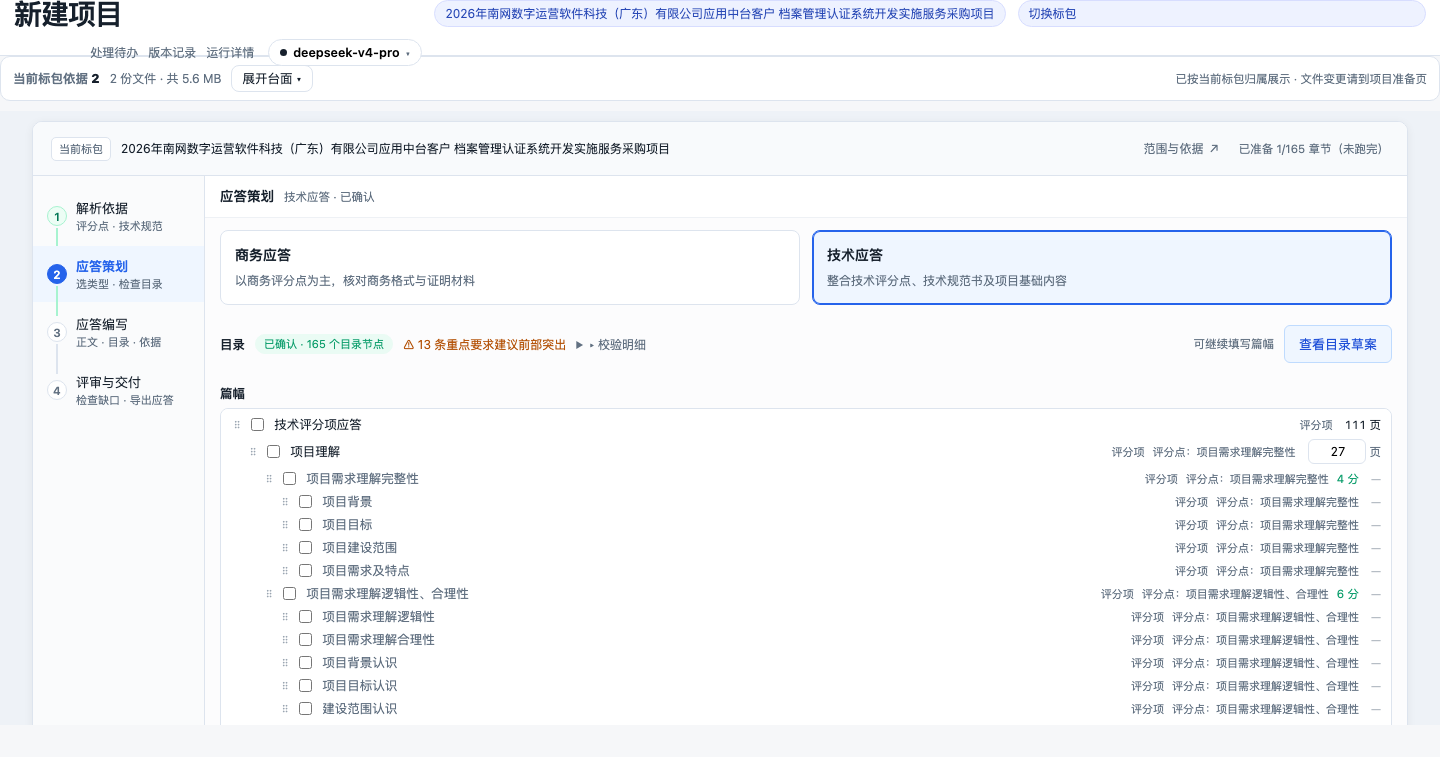
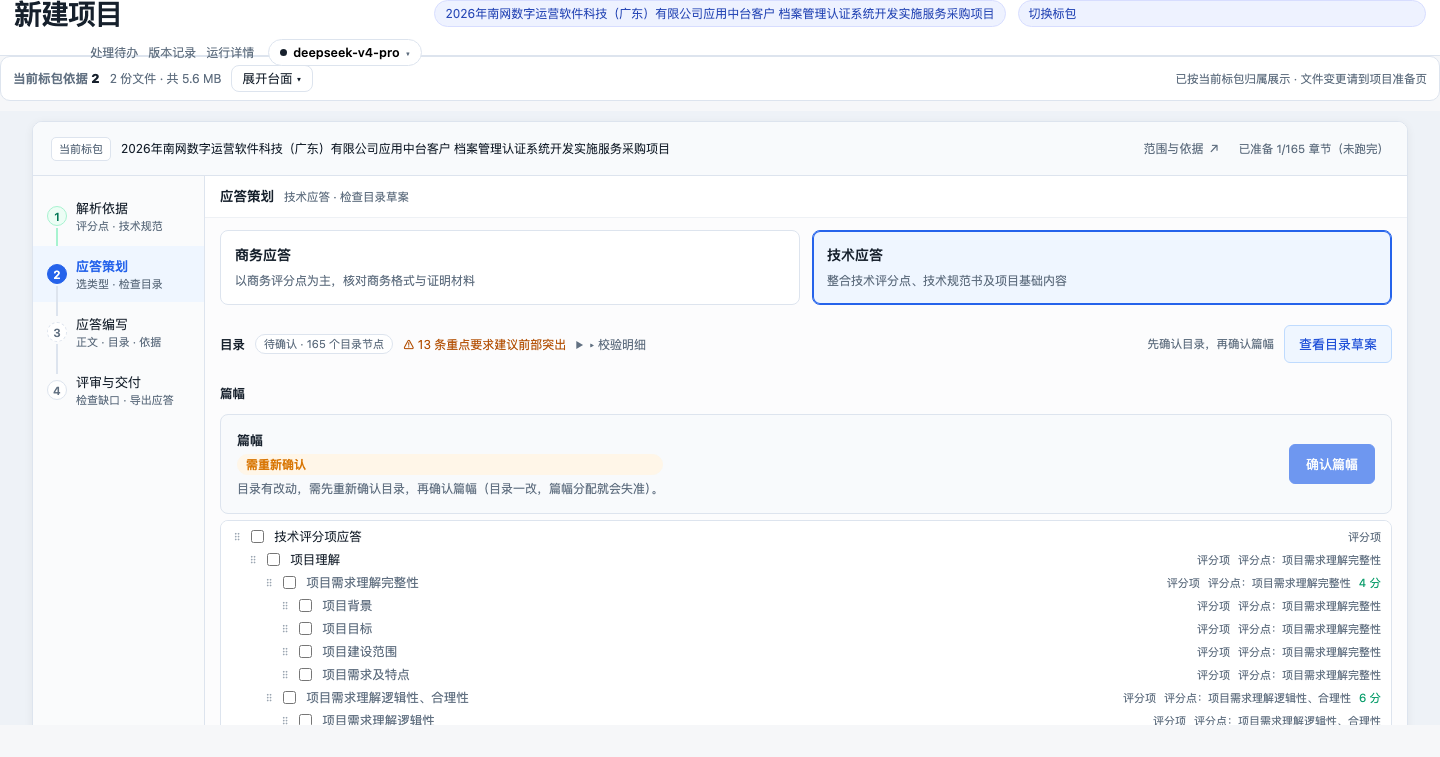
fix(策划): 篇幅区不再静默消失；隐藏旧块改为按身份而非按 class
用户反馈"篇幅输入框部分没看到输入框"。

## 真实原因（不是渲染 bug，是状态 + 我自己的守卫）
- 目录被编辑过（165 → 166 个节点，后又回到 165），**编辑会让"目录已确认"失效**
- 而篇幅区只在 directory_confirmed 为真时渲染 → 于是整块（连"篇幅"标题）**静默消失**
- 用户看到的是：标题空了 / 什么都没了，不知道发生了什么

## 改法
1 目录未确认时**不隐藏**，改为渲染门控条：
  「篇幅 [需重新确认] 目录有改动，需先重新确认目录，再确认篇幅（目录一改，篇幅分配就会失准）」+ 禁用的确认按钮
  —— 用户一眼知道"为什么没有输入框、下一步做什么"
2 隐藏旧块改为**按身份**：
  原本按 class 隐藏 .response-confirm-bar，而为了 UI 一致，我新增的篇幅区 / 门控条 / 收尾栏
  也用了同一个类 → **把自己一起藏了**（这个坑在本轮踩了三次：篇幅条、收尾栏、门控条）。
  现在只隐藏"含 [data-act=response-confirm] 或 [data-act=response-write] 的那张原卡"。

## 实测（真实项目 27，当前目录为"待确认"状态）
门控条可见 ✅ · 文案含原因与下一步 ✅ · 「确认篇幅」禁用 ✅
「篇幅」标题存在 ✅ · 目录胶囊显示「待确认 · 165 个目录节点」✅ · 无 JS 报错 ✅
目录重新确认后，输入框与该条即恢复（同一处逻辑，走 directory_confirmed 分支）

## 教训（已写进注释）
保持 UI 一致要靠**复用页面组件**，但复用会让"我新增的元素"和"我要隐藏的旧块"撞类名；
因此隐藏必须靠**身份**（data-act / 结构），不能靠 class。

diff --git a/frontend/assets/mode-outline.js b/frontend/assets/mode-outline.js
@@ -2,9 +2,9 @@
    抽成模块的目的：两段内联脚本有 90 个同名顶层标识符 + 18 个重复 DOM id，
    同页拼接必然互相覆盖；各自成为一个模块即各自一个作用域。
    本文件在抽取时**未改任何逻辑**。 */
-import {mountChapterStudio, exportDocument} from './chapter-studio.mjs?v=20261016-v186';
-import { api } from './api.js?v=20261016-v186';
-import { specContentHtml } from './spec-content.mjs?v=20261016-v186';
+import {mountChapterStudio, exportDocument} from './chapter-studio.mjs?v=20261016-v189';
+import { api } from './api.js?v=20261016-v189';
+import { specContentHtml } from './spec-content.mjs?v=20261016-v189';
 // 顶栏（项目名旁边那行「第 N 轮 · ...」）由共享壳 workspace.js 渲染。这里要把它
 // 改成**页面自己的真实状态**：checkpoint 的 stage 在准备中/编写准备完成后都停在
 // outline_review，只看它的话顶栏永远显示"待确认目录"（实测就是这个问题）。
@@ -12,7 +12,7 @@ import { workspace, renderWorkspaceChrome,
          REQUIREMENT_ROLES, SELECTABLE_REQUIREMENT_ROLES, ROLE_LABEL_SHARED, ROLE_HINT_SHARED,
          roleMismatchWarning, inferRoleFromFilename,
          uiAlert, uiConfirm,
-       } from './workspace.js?v=20261016-v186';
+       } from './workspace.js?v=20261016-v189';
 import { resolvePackageScope, buildOutlineTree, isOrphanedRun, activeStages, instructionDirty, newOutlineId, outlineSubtreeRange,
          moveOutlineNode, indentOutlineNode, outdentOutlineNode,
          moveManyOutlineNodes, indentManyOutlineNodes, outdentManyOutlineNodes,
@@ -31,7 +31,7 @@ import { resolvePackageScope, buildOutlineTree, isOrphanedRun, activeStages, ins
          // 章节状态投影：素材库 / 方案编辑 / 覆盖矩阵共用同一份判定（不再各算各的）
          chapterStage, chapterBadges, filterChapters, chapterFilterCounts,
          CHAPTER_STAGE_LABELS, evidenceByChapter, expandVisibleWithAncestors
-       } from './workspace-model.mjs?v=20261016-v186';
+       } from './workspace-model.mjs?v=20261016-v189';
 
 const params = new URLSearchParams(location.search);
 // projectId **只取数字部分**：链接被误写成 `?projectId=19**(Cmd+Shift+R)`（连带说明文字）
@@ -174,7 +174,7 @@ document.head.insertAdjacentHTML('beforeend', `<style>
 // 左栏章节树：行标记与「方案编辑」共用一份（2026-10-13 左栏归一）。
 // 此前两侧各拼一套（.ot-row / .doc-outline-item），数据投影虽已共用，
 // 但标记重复维护会漂移（workspace-model.mjs 注释里记着 "#undefined" 那次）。
-import { chapterNode, chapterBadgesHtml as sharedBadgesHtml } from './chapter-tree.mjs?v=20261016-v186';
+import { chapterNode, chapterBadgesHtml as sharedBadgesHtml } from './chapter-tree.mjs?v=20261016-v189';
 const blocksEmpty = document.getElementById('blocks-empty');
 const sidebarToc  = document.getElementById('sidebar-toc');
 const ringFill    = document.getElementById('ring-fill');
@@ -3632,7 +3632,17 @@ function pageBudgetCellHtml(b) {
 
 /** 篇幅控制条：总页数 + 两个动作 + 合计校验 + 确认篇幅。 */
 function pageBudgetBarHtml() {
-  if (!pageBudgetData || !pageBudgetData.directory_confirmed) return '';
+  if (!pageBudgetData) return '';
+  // 目录被改动 → 确认失效 → 篇幅必须重新确认（否则目录一改篇幅就乱）。
+  // 此时**不能静默隐藏**整块：用户只会觉得"输入框不见了"，要说明原因。
+  if (!pageBudgetData.directory_confirmed) {
+    return `<h5 class="sr-sec">篇幅</h5>
+      <div class="response-confirm-bar" data-page-budget-gate>
+        <div><strong>篇幅 <span class="ui-pill is-warn">需重新确认</span></strong>
+          <span>目录有改动，需先重新确认目录，再确认篇幅（目录一改，篇幅分配就会失准）。</span></div>
+        <button class="mw-btn primary" disabled>确认篇幅</button>
+      </div>`;
+  }
   const d = pageBudgetData;
   const ok = !!d.ok;
   const sum = `<span class="sr-dim" id="sr-page-sum">已分配到 <b>${Number(d.chapter_count) || 0}</b> 章 · 合计 <b>${Number(d.allocated) || 0}</b> 页</span>`;
@@ -4819,7 +4829,13 @@ async function openSplitReport({ auto = false, tab = '', stage: stageIn = '', su
   el.querySelectorAll('.sr-stage.on[data-stage="2"] .sr-stage-body > h5.sr-sec, .sr-stack h5.sr-sec').forEach((h) => {
     if ((h.textContent || '').indexOf('目录草案') === 0) h.hidden = true;   // 已由「目录」段标题替代
   });
-  el.querySelectorAll('.response-basis-card, .response-coverage, .response-landing-warning, .response-chapter-evidence, .response-mapping, .response-confirm-bar').forEach((node) => { node.hidden = true; });
+  // 隐藏"被合并掉的旧块"。注意：因为要保持 UI 一致，我新增的组件也用了 .response-confirm-bar，
+  // 按 class 隐藏会连自己一起藏掉（这个坑踩了三次）。改为**按身份**隐藏：
+  // 只有原「确认目录 / 进入编写」那张卡才藏。
+  el.querySelectorAll('.response-basis-card, .response-coverage, .response-landing-warning, .response-chapter-evidence, .response-mapping').forEach((node) => { node.hidden = true; });
+  el.querySelectorAll('.response-confirm-bar').forEach((node) => {
+    if (node.querySelector('[data-act="response-confirm"], [data-act="response-write"]')) node.hidden = true;
+  });
   el.querySelectorAll('.sr-dim').forEach((span) => {
     if (span.children.length) return;
     const text = span.textContent || '';

diff --git a/frontend/workbench.html b/frontend/workbench.html
@@ -4,7 +4,7 @@
     <meta charset="UTF-8" />
     <meta name="viewport" content="width=device-width, initial-scale=1.0" />
     <title>智能应标 · 材料撰写</title>
-    <link rel="stylesheet" href="./assets/styles.css?v=20261016-v186" />
+    <link rel="stylesheet" href="./assets/styles.css?v=20261016-v189" />
     <style>
       /* Outline pane */
       .workspace-shell .outline-pane {
@@ -2055,7 +2055,7 @@
     </style>
     <!-- Markdown 渲染（用于预览模式） -->
     <script src="https://cdn.jsdelivr.net/npm/marked@12.0.0/marked.min.js"></script>
-  <link rel="stylesheet" href="./assets/workspace.css?v=20261016-v186" />
+  <link rel="stylesheet" href="./assets/workspace.css?v=20261016-v189" />
   </head>
   <body>
   <script>
@@ -2500,18 +2500,18 @@
       </main>
     </div>
 
-    <script type="module" src="./assets/workbench.js?v=20261016-v186"></script>
+    <script type="module" src="./assets/workbench.js?v=20261016-v189"></script>
     <script type="module">
-      import { GenerateSession } from './assets/generate-session.js?v=20261016-v186';
-      import { initContextPanel } from './assets/context-panel.js?v=20261016-v186';
-      import { api } from './assets/api.js?v=20261016-v186';
-      import { request as workspaceRequest, refreshWorkspace, workspace, confirmChapterAction } from './assets/workspace.js?v=20261016-v186';
+      import { GenerateSession } from './assets/generate-session.js?v=20261016-v189';
+      import { initContextPanel } from './assets/context-panel.js?v=20261016-v189';
+      import { api } from './assets/api.js?v=20261016-v189';
+      import { request as workspaceRequest, refreshWorkspace, workspace, confirmChapterAction } from './assets/workspace.js?v=20261016-v189';
       // 提炼字段枚举 + 素材依据的**渲染片段**与 project-init 共用（见 workspace-model.mjs 注释）：
       // 性质徽标与出处行的实现在那边只有一份，两个页面不再各写一套（曾经因此漂移出
       // "每行显示 #undefined"）。
       import { CONSTRAINT_LEVELS, constraintLevelLabel,
                evidenceKindBadgeHtml, evidenceSourceLineHtml, evidenceSnippet,
-               chapterStage, CHAPTER_STAGE_LABELS } from './assets/workspace-model.mjs?v=20261016-v186';
+               chapterStage, CHAPTER_STAGE_LABELS } from './assets/workspace-model.mjs?v=20261016-v189';
       initContextPanel();
 
       // 素材抽屉：默认收起（写作时右栏就是正文本身），点工具栏「素材 n ▸」打开；
@@ -5575,6 +5575,6 @@
       })();
     })();
     </script>
-  <script type="module" src="./assets/workspace.js?v=20261016-v186"></script>
+  <script type="module" src="./assets/workspace.js?v=20261016-v189"></script>
   </body>
 </html>

diff --git a/frontend/three-mode.html b/frontend/three-mode.html
@@ -4,9 +4,9 @@
     <meta charset="UTF-8" />
     <meta name="viewport" content="width=device-width, initial-scale=1.0" />
     <title>AiBidding · Workbench Init State</title>
-    <link rel="stylesheet" href="./assets/response-outline.css?v=20261016-v186" />
-    <link rel="stylesheet" href="./assets/chapter-studio.css?v=20261016-v186" />
-    <link rel="stylesheet" href="./assets/styles.css?v=20261016-v186" />
+    <link rel="stylesheet" href="./assets/response-outline.css?v=20261016-v189" />
+    <link rel="stylesheet" href="./assets/chapter-studio.css?v=20261016-v189" />
+    <link rel="stylesheet" href="./assets/styles.css?v=20261016-v189" />
     <style>
 /* ── 三栏布局 ── */
 .init-layout {
@@ -3350,8 +3350,8 @@ body[data-view="matching"] .match-detail { display: block; }
   body[data-view="editor"] .ws-editor-layout { flex: 1 1 auto; min-height: 0; }
 
 </style>
-  <link rel="stylesheet" href="./assets/workspace.css?v=20261016-v186" />
-  <link rel="stylesheet" href="./assets/ui.css?v=20261016-v186" />   <!-- 组件最小集：最后加载以统一历史类名 -->
+  <link rel="stylesheet" href="./assets/workspace.css?v=20261016-v189" />
+  <link rel="stylesheet" href="./assets/ui.css?v=20261016-v189" />   <!-- 组件最小集：最后加载以统一历史类名 -->
   </head>
   <body data-view="outline" data-modes="outline,matching,editor">
     <div class="workspace-shell">
@@ -4053,16 +4053,16 @@ body[data-view="matching"] .match-detail { display: block; }
         if (skel) skel.hidden = true;
       }, 6000);
     </script>
-    <script type="module" src="./assets/workbench.js?v=20261016-v186"></script>
-    <script type="module" src="./assets/mode-dispatch.js?v=20261016-v186"></script>
+    <script type="module" src="./assets/workbench.js?v=20261016-v189"></script>
+    <script type="module" src="./assets/mode-dispatch.js?v=20261016-v189"></script>
     <!-- 动态 import：失败可捕获并上报（静态 import 失败无法捕获，会让整页静默不执行） -->
     <script type="module">
-      for (const mod of ['./assets/mode-outline.js?v=20261016-v186',
-                        './assets/mode-editor.js?v=20261016-v186']) {
+      for (const mod of ['./assets/mode-outline.js?v=20261016-v189',
+                        './assets/mode-editor.js?v=20261016-v189']) {
         try { await import(mod); }
         catch (err) { window.__bootErrors.push(`模块加载失败 ${mod}：${err?.message || err}`); }
       }
     </script>
-  <script type="module" src="./assets/workspace.js?v=20261016-v186"></script>
+  <script type="module" src="./assets/workspace.js?v=20261016-v189"></script>
   </body>
 </html>

diff --git a/frontend/project-init.html b/frontend/project-init.html
@@ -4,7 +4,7 @@
     <meta charset="UTF-8" />
     <meta name="viewport" content="width=device-width, initial-scale=1.0" />
     <title>AiBidding · Workbench Init State</title>
-    <link rel="stylesheet" href="./assets/styles.css?v=20261016-v186" />
+    <link rel="stylesheet" href="./assets/styles.css?v=20261016-v189" />
     <style>
 /* ── 三栏布局 ── */
 .init-layout {
@@ -889,7 +889,7 @@ body[data-view="matching"] .match-detail { display: block; }
   background: #eff6ff;
 }
     </style>
-  <link rel="stylesheet" href="./assets/workspace.css?v=20261016-v186" />
+  <link rel="stylesheet" href="./assets/workspace.css?v=20261016-v189" />
   </head>
   <body data-view="outline">
   <script>
@@ -1097,14 +1097,14 @@ body[data-view="matching"] .match-detail { display: block; }
     </div>
 
     <script type="module">
-import { api } from './assets/api.js?v=20261016-v186';
+import { api } from './assets/api.js?v=20261016-v189';
 // 顶栏（项目名旁边那行「第 N 轮 · ...」）由共享壳 workspace.js 渲染。这里要把它
 // 改成**页面自己的真实状态**：checkpoint 的 stage 在提炼中/提炼完成后都停在
 // outline_review，只看它的话顶栏永远显示"待确认目录"（实测就是这个问题）。
 import { workspace, renderWorkspaceChrome,
          REQUIREMENT_ROLES, ROLE_LABEL_SHARED, ROLE_HINT_SHARED,
          roleMismatchWarning, inferRoleFromFilename,
-       } from './assets/workspace.js?v=20261016-v186';
+       } from './assets/workspace.js?v=20261016-v189';
 import { buildOutlineTree, isOrphanedRun, activeStages, instructionDirty, newOutlineId, outlineSubtreeRange,
          moveOutlineNode, indentOutlineNode, outdentOutlineNode,
          removeOutlineSubtree, insertSiblingAfter, insertChildOf,
@@ -1118,7 +1118,7 @@ import { buildOutlineTree, isOrphanedRun, activeStages, instructionDirty, newOut
          // 章节状态投影：素材库 / 方案编辑 / 覆盖矩阵共用同一份判定（不再各算各的）
          chapterStage, chapterBadges, filterChapters, chapterFilterCounts,
          CHAPTER_STAGE_LABELS, evidenceByChapter, expandVisibleWithAncestors
-       } from './assets/workspace-model.mjs?v=20261016-v186';
+       } from './assets/workspace-model.mjs?v=20261016-v189';
 
 const params = new URLSearchParams(location.search);
 const projectId = params.get('projectId');
@@ -4957,6 +4957,6 @@ bindMatchDetailActions();
   });
 })();
     </script>
-  <script type="module" src="./assets/workspace.js?v=20261016-v186"></script>
+  <script type="module" src="./assets/workspace.js?v=20261016-v189"></script>
   </body>
 </html>

diff --git a/frontend/assets/mode-editor.js b/frontend/assets/mode-editor.js
@@ -2,13 +2,13 @@
    抽成模块的目的：两段内联脚本有 90 个同名顶层标识符 + 18 个重复 DOM id，
    同页拼接必然互相覆盖；各自成为一个模块即各自一个作用域。
    本文件在抽取时**未改任何逻辑**。 */
-import { GenerateSession } from './generate-session.js?v=20261016-v186';
+import { GenerateSession } from './generate-session.js?v=20261016-v189';
 // 左栏章节树：与「要求与大纲 / 素材库」共用一份行标记（2026-10-13 左栏归一）
-import { chapterNode, renderChapterTree } from './chapter-tree.mjs?v=20261016-v186';
-import { initContextPanel } from './context-panel.js?v=20261016-v186';
-import { api } from './api.js?v=20261016-v186';
+import { chapterNode, renderChapterTree } from './chapter-tree.mjs?v=20261016-v189';
+import { initContextPanel } from './context-panel.js?v=20261016-v189';
+import { api } from './api.js?v=20261016-v189';
 import { request as workspaceRequest, refreshWorkspace, workspace, confirmChapterAction ,
-         uiAlert, uiConfirm} from './workspace.js?v=20261016-v186';
+         uiAlert, uiConfirm} from './workspace.js?v=20261016-v189';
 
 // ── 本章要求 bar 的应答条目缓存 ──────────────────────────────
 // 必须**声明在模块最前面**：它原本声明在文件中部，而模块之间存在循环依赖
@@ -21,7 +21,7 @@ let responseItemsByBlock = {};
 // "每行显示 #undefined"）。
 import { CONSTRAINT_LEVELS, constraintLevelLabel,
          evidenceKindBadgeHtml, evidenceSourceLineHtml, evidenceSnippet,
-         chapterStage, CHAPTER_STAGE_LABELS } from './workspace-model.mjs?v=20261016-v186';
+         chapterStage, CHAPTER_STAGE_LABELS } from './workspace-model.mjs?v=20261016-v189';
 initContextPanel();
 
 // 素材抽屉：默认收起（写作时右栏就是正文本身），点工具栏「素材 n ▸」打开；

diff --git a/frontend/project-intake.html b/frontend/project-intake.html
@@ -3,7 +3,7 @@
 <head>
   <meta charset="utf-8"><meta name="viewport" content="width=device-width,initial-scale=1">
   <title>项目准备 · 智能应标</title>
-  <link rel="stylesheet" href="/assets/styles.css?v=20261016-v186">
+  <link rel="stylesheet" href="/assets/styles.css?v=20261016-v189">
   <style>
     body{margin:0;background:#f7f8fa;color:#17202a;font-family:Inter,"PingFang SC",sans-serif}
     .shell{max-width:1120px;margin:auto;padding:28px}.top{display:flex;justify-content:space-between;align-items:center;margin-bottom:22px}
@@ -32,4 +32,4 @@
 </main>
 <dialog id="package-editor"><form id="package-form"><h2>编辑投标对象</h2><p class="hint">仅在识别有误时修改；名称可留空。</p><input id="edit-id" type="hidden"><label>对象类型<select id="edit-kind"><option value="package">标包</option><option value="section">标段</option><option value="target">独立标的</option></select></label><label>所属标的编号<input id="edit-target"></label><label>标包 / 标段编号<input id="edit-code"></label><label>完整名称<input id="edit-name" maxlength="300"></label><div class="actions"><button type="button" id="cancel-edit">取消</button><button class="primary" type="submit">保存</button></div></form></dialog>
 <dialog id="merge-dialog"><form id="merge-form"><h2>合并重复候选</h2><p class="hint">将当前候选的证据合并到以下保留项。已有运行成果的候选不能合并，保留项需要重新核验。</p><input id="merge-source" type="hidden"><label>保留的投标对象<select id="merge-destination"></select></label><div class="actions"><button type="button" id="cancel-merge">取消</button><button type="submit" class="primary">确认合并</button></div></form></dialog>
-<script type="module" src="/assets/intake.js?v=20261016-v186"></script></body></html>
+<script type="module" src="/assets/intake.js?v=20261016-v189"></script></body></html>

diff --git a/frontend/review.html b/frontend/review.html
@@ -4,16 +4,16 @@
     <meta charset="UTF-8" />
     <meta name="viewport" content="width=device-width, initial-scale=1.0" />
     <title>AiBidding · 质量检查</title>
-    <link rel="stylesheet" href="./assets/styles.css?v=20261016-v186" />
-    <link rel="stylesheet" href="./assets/review.css?v=20261016-v186" />
-  <link rel="stylesheet" href="./assets/workspace.css?v=20261016-v186" />
+    <link rel="stylesheet" href="./assets/styles.css?v=20261016-v189" />
+    <link rel="stylesheet" href="./assets/review.css?v=20261016-v189" />
+  <link rel="stylesheet" href="./assets/workspace.css?v=20261016-v189" />
   <style>
     /* 返回作业面板：与项目名同级的次级入口 */
     .back-to-panel { margin-left:10px; font-size:12.5px; color:var(--muted); text-decoration:none;
       border:1px solid var(--line); border-radius:8px; padding:3px 10px; }
     .back-to-panel:hover { color:var(--text); background:var(--bg-2); }
   </style>
-  <link rel="stylesheet" href="./assets/ui.css?v=20261016-v186" />   <!-- 组件最小集：最后加载以统一历史类名 -->
+  <link rel="stylesheet" href="./assets/ui.css?v=20261016-v189" />   <!-- 组件最小集：最后加载以统一历史类名 -->
   </head>
   <body>
     <div class="workspace-shell">
@@ -96,7 +96,7 @@
       </main>
     </div>
 
-    <script type="module" src="./assets/review.js?v=20261016-v186"></script>
-  <script type="module" src="./assets/workspace.js?v=20261016-v186"></script>
+    <script type="module" src="./assets/review.js?v=20261016-v189"></script>
+  <script type="module" src="./assets/workspace.js?v=20261016-v189"></script>
   </body>
 </html>

diff --git a/frontend/assets/workbench.js b/frontend/assets/workbench.js
@@ -1,12 +1,12 @@
-import {workspace, subscribe, refreshWorkspace, workspaceUrl, confirmChapterAction, openDialog, showHistory, statusLabels, esc} from './workspace.js?v=20261016-v186';
+import {workspace, subscribe, refreshWorkspace, workspaceUrl, confirmChapterAction, openDialog, showHistory, statusLabels, esc} from './workspace.js?v=20261016-v189';
 // 章节状态/依据徽标与「素材库」共用一份投影（同一棵目录树，四个环节都一样）
-import {chapterBadges, parseEvidence} from './workspace-model.mjs?v=20261016-v186';
+import {chapterBadges, parseEvidence} from './workspace-model.mjs?v=20261016-v189';
 // 左栏章节树：**三个模式共用一份**行标记（2026-10-13 归一）。
 // 此前编辑器侧自己拼 `.doc-outline-item`、大纲侧拼 `.ot-row`，是两套实现；
 // 数据投影本就共用（workspace-model），这里把标记也收敛掉。
 // 行上仍保留 `doc-outline-item` 类与 data-block-id 属性，兼容 mode-editor.js 里
 // 既有的 10 处选择器（改动面最小化）。
-import {chapterNode, renderChapterTree, chapterBadgesHtml} from './chapter-tree.mjs?v=20261016-v186';
+import {chapterNode, renderChapterTree, chapterBadgesHtml} from './chapter-tree.mjs?v=20261016-v189';
 // 左栏树的**唯一宿主**：由 mode-dispatch 在模式切换时把 #blocks-list 搬到当前模式的
 // 左栏位置。归一前这里是 `.doc-outline`，与大纲侧 `#blocks-list` 各渲一棵（实测
 // .ot-node 有 120 个 = 两棵各 60）。动态解析而不是加载时捕获，就是为了让宿主可搬。

diff --git a/frontend/projects.html b/frontend/projects.html
@@ -4,7 +4,7 @@
     <meta charset="UTF-8" />
     <meta name="viewport" content="width=device-width, initial-scale=1.0" />
     <title>智能应标 · 项目列表</title>
-    <link rel="stylesheet" href="./assets/styles.css?v=20261016-v186" />
+    <link rel="stylesheet" href="./assets/styles.css?v=20261016-v189" />
     <style>
       /* ── 页头 ── */
       .app-header {
@@ -613,7 +613,7 @@
       .btn-api-save:disabled { opacity: 0.45; cursor: default; }
       .btn-api-save:not(:disabled):hover { opacity: 0.88; }
     </style>
-    <link rel="stylesheet" href="./assets/ui.css?v=20261016-v186" />   <!-- 组件最小集：最后加载以统一历史类名 -->
+    <link rel="stylesheet" href="./assets/ui.css?v=20261016-v189" />   <!-- 组件最小集：最后加载以统一历史类名 -->
 </head>
   <body>
     <!-- 页头 -->
@@ -745,7 +745,7 @@
     </div>
 
     <script type="module">
-      import { api } from './assets/api.js?v=20261016-v186';
+      import { api } from './assets/api.js?v=20261016-v189';
 
       // ── 状态 ──
       const reqFiles = []; // {file, name, size, ext}

diff --git a/frontend/diff-review.html b/frontend/diff-review.html
@@ -4,8 +4,8 @@
     <meta charset="UTF-8" />
     <meta name="viewport" content="width=device-width, initial-scale=1.0" />
     <title>AiBidding · Diff Review</title>
-    <link rel="stylesheet" href="./assets/styles.css?v=20261016-v186" />
-  <link rel="stylesheet" href="./assets/workspace.css?v=20261016-v186" />
+    <link rel="stylesheet" href="./assets/styles.css?v=20261016-v189" />
+  <link rel="stylesheet" href="./assets/workspace.css?v=20261016-v189" />
   </head>
   <body>
     <div class="workspace-shell">
@@ -98,7 +98,7 @@
     </div>
 
     <script type="module">
-      import { api } from './assets/api.js?v=20261016-v186';
+      import { api } from './assets/api.js?v=20261016-v189';
 
       const params    = new URLSearchParams(location.search);
       const projectId = params.get('projectId');
@@ -326,6 +326,6 @@
 
       loadRevisions();
     </script>
-  <script type="module" src="./assets/workspace.js?v=20261016-v186"></script>
+  <script type="module" src="./assets/workspace.js?v=20261016-v189"></script>
   </body>
 </html>

diff --git a/frontend/assets/workspace.js b/frontend/assets/workspace.js
@@ -1,11 +1,11 @@
-import {projectChapters, summarize, statusLabels, stageLabels, activeStages, runtimeStages, isOrphanedRun, isExtractDone, diffHtml, escapeHtml as esc} from './workspace-model.mjs?v=20261016-v186';
+import {projectChapters, summarize, statusLabels, stageLabels, activeStages, runtimeStages, isOrphanedRun, isExtractDone, diffHtml, escapeHtml as esc} from './workspace-model.mjs?v=20261016-v189';
 export {statusLabels, esc};
 // 材料角色体系再导出：project-init 的角色下拉与"分类纠错提示"都从这里取
 export {
   REQUIREMENT_ROLES, SELECTABLE_REQUIREMENT_ROLES, SOURCE_ROLES, ALL_MATERIAL_ROLES,
   ROLE_LABEL as ROLE_LABEL_SHARED, ROLE_HINT as ROLE_HINT_SHARED,
   isRequirementRole, inferRoleFromFilename, roleMismatchWarning,
-} from './material-roles.mjs?v=20261016-v186';
+} from './material-roles.mjs?v=20261016-v189';
 export async function request(url, options) {
   const response = await fetch(url, options);
   const data = await response.json().catch(() => ({}));

diff --git a/frontend/assets/review.js b/frontend/assets/review.js
@@ -1,5 +1,5 @@
-import {workspace, subscribe, workspaceUrl, request, refreshWorkspace, confirmChapterAction, showHistory, openDialog, statusLabels, esc} from './workspace.js?v=20261016-v186';
-import {summarize, diffHtml} from './workspace-model.mjs?v=20261016-v186';
+import {workspace, subscribe, workspaceUrl, request, refreshWorkspace, confirmChapterAction, showHistory, openDialog, statusLabels, esc} from './workspace.js?v=20261016-v189';
+import {summarize, diffHtml} from './workspace-model.mjs?v=20261016-v189';
 const $ = id => document.getElementById(id);
 
 // 「← 作业面板」带上当前项目/线程/标包 —— 回面板仍是同一条作业、同一个标包
